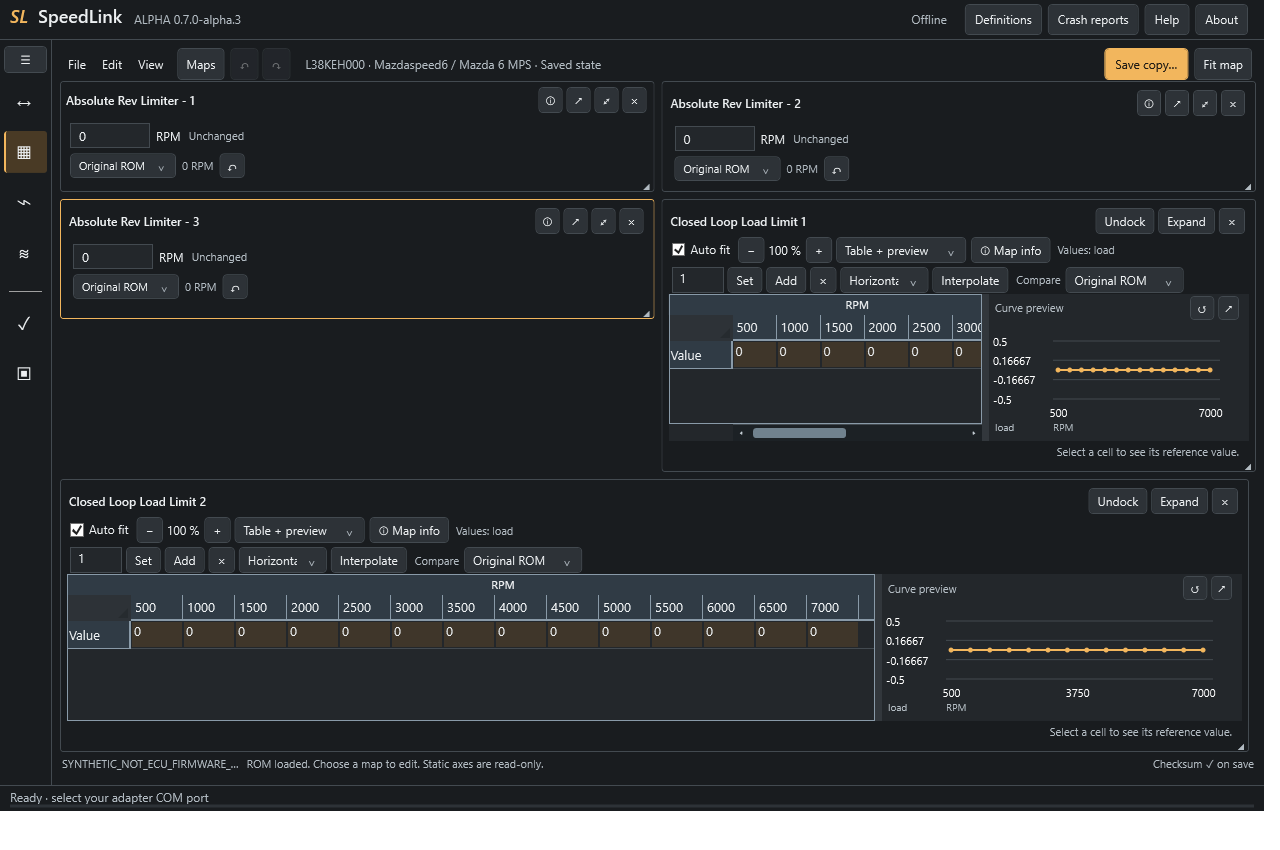
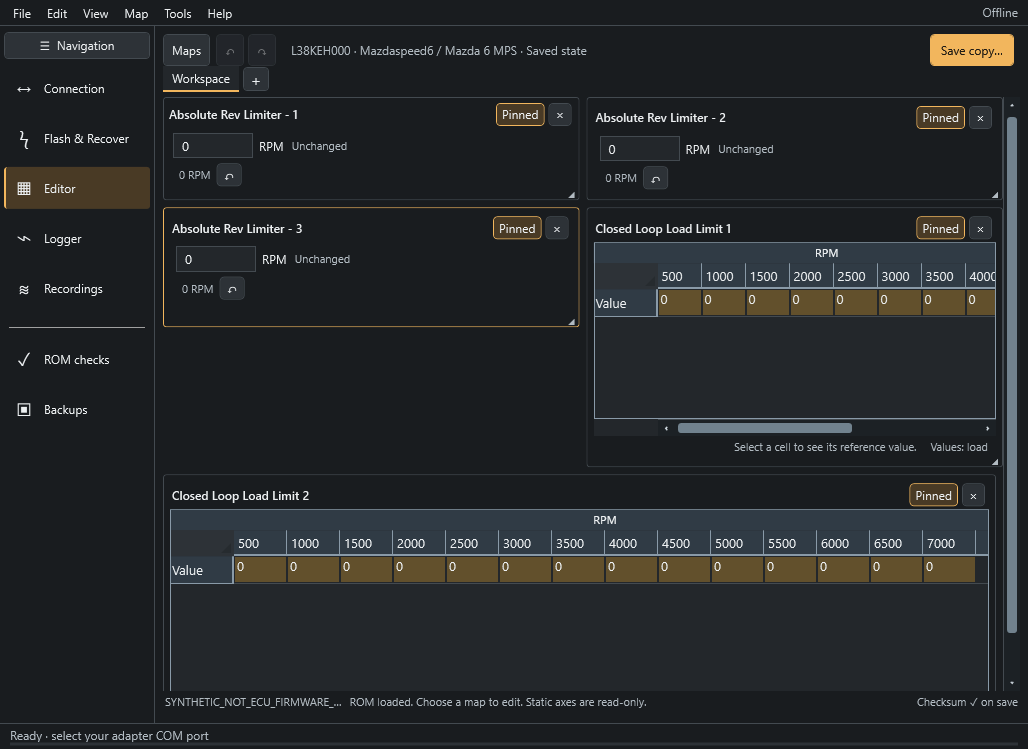
Refresh the SpeedLink alpha.13 walkthrough and screenshots

diff --git a/README.md b/README.md
@@ -6,12 +6,12 @@ Open-source ROM reading, data logging, ROM editing, and Gen 1 flashing and recov
 
 **[Download SpeedLink v0.8.0-alpha.13](https://github.com/mrphyslaw/SpeedLink/releases/tag/v0.8.0-alpha.13)** · A single Windows EXE with the runtime included.
 
-**Watch the SpeedLink v0.8.0-alpha.5 walkthrough (1:27)** · Silent with on-screen captions.
+**Watch the SpeedLink v0.8.0-alpha.13 walkthrough (1:03)** · Silent with on-screen captions.
 
-https://github.com/user-attachments/assets/b4f13fbb-896c-4eae-93b6-aa2b6b252f4c
+https://github.com/user-attachments/assets/bd476c2f-417a-4cbd-9468-7bdceb906616
 
-See verified backups, side-by-side maps and 3D previews, the built-in tuning guide,
-logging and playback, and Gen 1 post-write verification. ECU operations shown are simulated.
+See verified backups, map docking, reassignable shortcuts, Light and Dark cell
+colors, row-label resizing, and logging and playback. The examples use synthetic data.
 
 Use the permanent File, Edit, View, Map, Tools and Help menus throughout the app. Sidebar icons show their workspace names by default; collapse them when you want more map space. **Pin** the maps you want to keep side by side while you browse in a reusable pane. Use the **+** after the last workspace tab to save named layouts such as Fuel Tuning or Boost Control. Auto fit preserves readable text and uses available cell spacing. Replace the EXE and keep your existing `data` folder. See [changes](CHANGELOG.md), the [editor guide](docs/EDITOR.md) and [reporting problems](docs/TROUBLESHOOTING.md).
 
@@ -52,7 +52,8 @@ rotatable 3D surfaces. [More editor screenshots and a first-edit walkthrough →
 Axis headers have a distinct background and bright separators. **Map → Map information…** and **F1** show units, correction direction and practical examples.
 Axis titles stay centered beside the visible rows and above the visible columns,
 including short tables with unused space. [See the alignment example →](docs/editor/README.md#axis-titles-follow-the-data)
-The map-window preview uses synthetic example values.
+The map-window preview uses synthetic example values. **View → Appearance** changes
+the map gradient with the theme. [Compare Light and Dark and see the shortcut settings](docs/editor/README.md#appearance-and-shortcuts).
 
 Single values use compact cards that wrap across the workspace, with units,
 help and baseline comparison. Rejected ROM files leave the current editing
